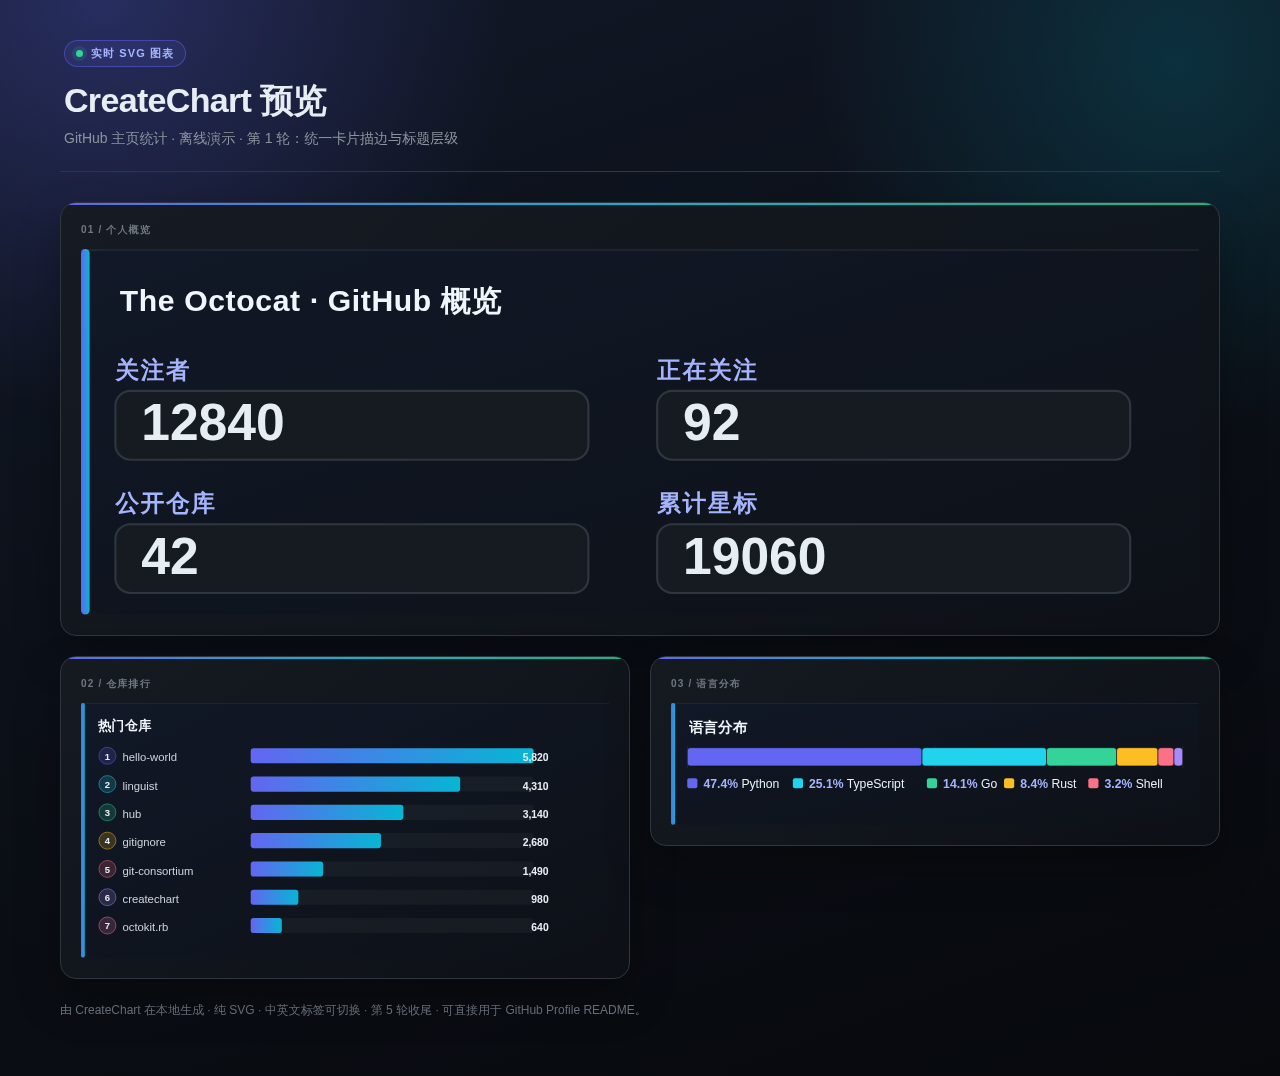
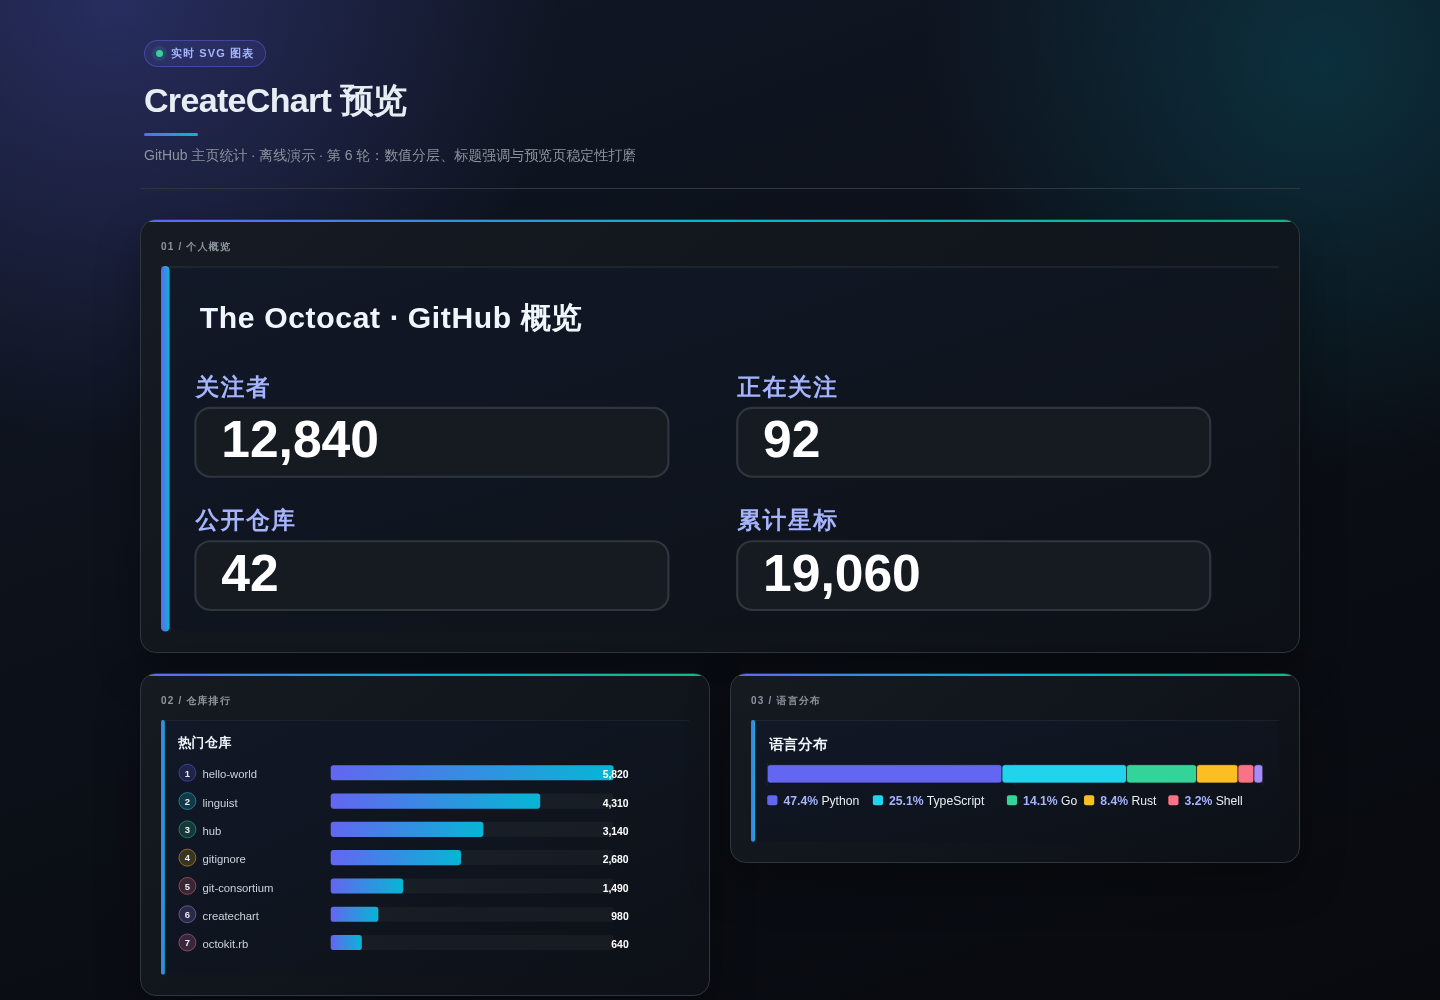
feat(charts): 打磨数值展示与预览页

Changed region(s): [[0.0312, 0.186, 0.9375, 0.961], [0.0312, 0.031, 0.4375, 0.186], [0.125, 0.992, 0.4688, 1.0]]

diff --git a/charts-zh/preview.html b/charts-zh/preview.html
@@ -1,0 +1,201 @@
+<!doctype html>
+<html lang="zh">
+<head>
+  <meta charset="utf-8">
+  <meta name="viewport" content="width=device-width, initial-scale=1">
+  <title>CreateChart · 预览</title>
+  <style>
+    * { box-sizing: border-box; }
+    body {
+      margin: 0;
+      min-height: 100vh;
+      padding: 40px 24px 56px;
+      background:
+        radial-gradient(circle at 8% 0%, rgba(99, 102, 241, .28) 0, transparent 26%),
+        radial-gradient(circle at 92% 6%, rgba(6, 182, 212, .18) 0, transparent 24%),
+        linear-gradient(160deg, #111827 0%, #0b0f16 52%, #07090d 100%);
+      color: #e6edf3;
+      font-family: -apple-system, BlinkMacSystemFont, "Segoe UI", sans-serif;
+    }
+    main { max-width: 1160px; margin: 0 auto; }
+    header { margin-bottom: 30px; padding: 0 4px 22px; border-bottom: 1px solid #30363d; }
+    .eyebrow {
+      display: inline-flex; align-items: center; gap: 8px;
+      margin-bottom: 14px; padding: 5px 11px;
+      border: 1px solid rgba(99, 102, 241, .45); border-radius: 999px;
+      background: rgba(99, 102, 241, .12); color: #a5b4fc;
+      font-size: 11px; font-weight: 700; letter-spacing: .1em; text-transform: uppercase;
+    }
+    .eyebrow::before {
+      content: ""; width: 7px; height: 7px; border-radius: 50%;
+      background: #34d399; box-shadow: 0 0 0 4px rgba(52, 211, 153, .12);
+    }
+    h1 { margin: 0 0 8px; font-size: 34px; line-height: 1.12; letter-spacing: -.02em; }
+    h1::after { content: ""; display: block; width: 54px; height: 3px; margin-top: 14px; border-radius: 999px; background: linear-gradient(90deg, #6366f1, #06b6d4); }
+    .subtitle { color: #8b949e; font-size: 14px; line-height: 1.6; }
+    .grid { display: grid; grid-template-columns: repeat(2, minmax(0, 1fr)); gap: 20px; align-items: start; }
+    .card {
+      position: relative; padding: 20px;
+      border: 1px solid #30363d; border-radius: 16px; transition: border-color .2s ease, transform .2s ease;
+      background: linear-gradient(145deg, rgba(22, 27, 34, .95), rgba(13, 17, 23, .88));
+      box-shadow: 0 20px 45px rgba(0, 0, 0, .3);
+      overflow: hidden;
+    }
+    .card::before {
+      content: ""; position: absolute; inset: 0 0 auto; height: 2px;
+      background: linear-gradient(90deg, #6366f1, #06b6d4, #10b981);
+    }
+    .card .section-label {
+      display: block; margin: 0 0 12px; color: #8b949e;
+      font-size: 10px; font-weight: 700; letter-spacing: .12em; text-transform: uppercase;
+    }
+    .card:first-child { grid-column: 1 / -1; }
+    .card svg { display: block; width: 100%; height: auto; }
+    .card:hover { border-color: rgba(99, 102, 241, .72); box-shadow: 0 22px 52px rgba(0,0,0,.38), 0 0 0 1px rgba(99,102,241,.18); transform: translateY(-2px); }
+    .card svg text { paint-order: stroke; }
+    footer { margin-top: 22px; color: #6e7681; font-size: 12px; line-height: 1.6; }
+    @media (max-width: 900px) {
+      body { padding: 24px 16px 40px; }
+      h1 { font-size: 28px; }
+      .grid { grid-template-columns: 1fr; }
+      .card:first-child { grid-column: auto; }
+    }
+  </style>
+</head>
+<body>
+  <main>
+    <header>
+      <div class="eyebrow">实时 SVG 图表</div>
+      <h1>CreateChart 预览</h1>
+      <div class="subtitle">GitHub 主页统计 · 离线演示 · 第 6 轮：数值分层、标题强调与预览页稳定性打磨</div>
+    </header>
+    <section class="grid">
+      <div class="card"><span class="section-label">01 / 个人概览</span><svg xmlns="http://www.w3.org/2000/svg" width="520" height="170" viewBox="0 0 520 170" role="img" aria-label="The Octocat · GitHub 概览">
+<defs>
+<linearGradient id="bg" x1="0" y1="0" x2="1" y2="1">
+<stop offset="0%" stop-color="#111827"/>
+<stop offset="100%" stop-color="#0d1117"/>
+</linearGradient>
+<linearGradient id="accent" x1="0" y1="0" x2="1" y2="0">
+<stop offset="0%" stop-color="#6366f1"/>
+<stop offset="100%" stop-color="#06b6d4"/>
+</linearGradient>
+</defs>
+<rect width="520" height="170" fill="url(#bg)" rx="12"/>
+<rect x="0" y="0" width="4" height="170" fill="url(#accent)" rx="2"/>
+<rect x="0" y="0" width="520" height="1" fill="#ffffff" opacity="0.06"/>
+<text x="18" y="29" fill="#f0f6fc" font-family="-apple-system, BlinkMacSystemFont, Segoe UI, sans-serif" font-size="14" font-weight="700" letter-spacing="0.3">The Octocat · GitHub 概览</text>
+<line x1="18" y1="38" x2="502" y2="38" stroke="url(#accent)" stroke-opacity="0.55"/>
+<text x="16" y="60" fill="#a5b4fc" font-family="-apple-system, BlinkMacSystemFont, Segoe UI, sans-serif" font-size="11" font-weight="700" letter-spacing="0.8">关注者</text>
+<rect x="16" y="66" width="220" height="32" rx="7" fill="#161b22" stroke="#30363d"/>
+<text x="28" y="89" fill="#e6edf3" font-family="-apple-system, BlinkMacSystemFont, Segoe UI, sans-serif" font-size="24" font-weight="700" font-feature-settings="tnum"><tspan fill="#ffffff">12,840</tspan></text>
+<text x="268" y="60" fill="#a5b4fc" font-family="-apple-system, BlinkMacSystemFont, Segoe UI, sans-serif" font-size="11" font-weight="700" letter-spacing="0.8">正在关注</text>
+<rect x="268" y="66" width="220" height="32" rx="7" fill="#161b22" stroke="#30363d"/>
+<text x="280" y="89" fill="#e6edf3" font-family="-apple-system, BlinkMacSystemFont, Segoe UI, sans-serif" font-size="24" font-weight="700" font-feature-settings="tnum"><tspan fill="#ffffff">92</tspan></text>
+<text x="16" y="122" fill="#a5b4fc" font-family="-apple-system, BlinkMacSystemFont, Segoe UI, sans-serif" font-size="11" font-weight="700" letter-spacing="0.8">公开仓库</text>
+<rect x="16" y="128" width="220" height="32" rx="7" fill="#161b22" stroke="#30363d"/>
+<text x="28" y="151" fill="#e6edf3" font-family="-apple-system, BlinkMacSystemFont, Segoe UI, sans-serif" font-size="24" font-weight="700" font-feature-settings="tnum"><tspan fill="#ffffff">42</tspan></text>
+<text x="268" y="122" fill="#a5b4fc" font-family="-apple-system, BlinkMacSystemFont, Segoe UI, sans-serif" font-size="11" font-weight="700" letter-spacing="0.8">累计星标</text>
+<rect x="268" y="128" width="220" height="32" rx="7" fill="#161b22" stroke="#30363d"/>
+<text x="280" y="151" fill="#e6edf3" font-family="-apple-system, BlinkMacSystemFont, Segoe UI, sans-serif" font-size="24" font-weight="700" font-feature-settings="tnum"><tspan fill="#ffffff">19,060</tspan></text>
+</svg></div>
+      <div class="card"><span class="section-label">02 / 仓库排行</span><svg xmlns="http://www.w3.org/2000/svg" width="560" height="270" viewBox="0 0 560 270" role="img" aria-label="热门仓库">
+<defs>
+<linearGradient id="bg" x1="0" y1="0" x2="1" y2="1">
+<stop offset="0%" stop-color="#111827"/>
+<stop offset="100%" stop-color="#0d1117"/>
+</linearGradient>
+<linearGradient id="accent" x1="0" y1="0" x2="1" y2="0">
+<stop offset="0%" stop-color="#6366f1"/>
+<stop offset="100%" stop-color="#06b6d4"/>
+</linearGradient>
+</defs>
+<rect width="560" height="270" fill="url(#bg)" rx="12"/>
+<rect x="0" y="0" width="4" height="270" fill="url(#accent)" rx="2"/>
+<rect x="0" y="0" width="560" height="1" fill="#ffffff" opacity="0.06"/>
+<text x="18" y="29" fill="#f0f6fc" font-family="-apple-system, BlinkMacSystemFont, Segoe UI, sans-serif" font-size="14" font-weight="700" letter-spacing="0.3">热门仓库</text>
+<line x1="18" y1="38" x2="542" y2="38" stroke="url(#accent)" stroke-opacity="0.55"/>
+<circle cx="28" cy="56" r="9" fill="#6366f1" fill-opacity="0.18" stroke="#6366f1" stroke-opacity="0.5"/>
+<text x="28" y="60" text-anchor="middle" fill="#e6edf3" font-family="-apple-system, BlinkMacSystemFont, Segoe UI, sans-serif" font-size="10" font-weight="700">1</text>
+<text x="44" y="62" fill="#c9d1d9" font-family="-apple-system, BlinkMacSystemFont, Segoe UI, sans-serif" font-size="12">hello-world</text>
+<rect x="180" y="48" width="300" height="16" rx="3" fill="#ffffff" fill-opacity="0.04"/>
+<rect x="180" y="48" width="300.00" height="16" rx="3" fill="url(#accent)"><title>hello-world: 5820</title></rect>
+<text x="496.00" y="62.00" text-anchor="end" fill="#f0f6fc" font-family="-apple-system, BlinkMacSystemFont, Segoe UI, sans-serif" font-size="11" font-weight="700" font-feature-settings="tnum"><tspan fill="#ffffff">5,820</tspan></text>
+<circle cx="28" cy="86" r="9" fill="#22d3ee" fill-opacity="0.18" stroke="#22d3ee" stroke-opacity="0.5"/>
+<text x="28" y="90" text-anchor="middle" fill="#e6edf3" font-family="-apple-system, BlinkMacSystemFont, Segoe UI, sans-serif" font-size="10" font-weight="700">2</text>
+<text x="44" y="92" fill="#c9d1d9" font-family="-apple-system, BlinkMacSystemFont, Segoe UI, sans-serif" font-size="12">linguist</text>
+<rect x="180" y="78" width="300" height="16" rx="3" fill="#ffffff" fill-opacity="0.04"/>
+<rect x="180" y="78" width="222.16" height="16" rx="3" fill="url(#accent)"><title>linguist: 4310</title></rect>
+<text x="496.00" y="92.00" text-anchor="end" fill="#f0f6fc" font-family="-apple-system, BlinkMacSystemFont, Segoe UI, sans-serif" font-size="11" font-weight="700" font-feature-settings="tnum"><tspan fill="#ffffff">4,310</tspan></text>
+<circle cx="28" cy="116" r="9" fill="#34d399" fill-opacity="0.18" stroke="#34d399" stroke-opacity="0.5"/>
+<text x="28" y="120" text-anchor="middle" fill="#e6edf3" font-family="-apple-system, BlinkMacSystemFont, Segoe UI, sans-serif" font-size="10" font-weight="700">3</text>
+<text x="44" y="122" fill="#c9d1d9" font-family="-apple-system, BlinkMacSystemFont, Segoe UI, sans-serif" font-size="12">hub</text>
+<rect x="180" y="108" width="300" height="16" rx="3" fill="#ffffff" fill-opacity="0.04"/>
+<rect x="180" y="108" width="161.86" height="16" rx="3" fill="url(#accent)"><title>hub: 3140</title></rect>
+<text x="496.00" y="122.00" text-anchor="end" fill="#f0f6fc" font-family="-apple-system, BlinkMacSystemFont, Segoe UI, sans-serif" font-size="11" font-weight="700" font-feature-settings="tnum"><tspan fill="#ffffff">3,140</tspan></text>
+<circle cx="28" cy="146" r="9" fill="#fbbf24" fill-opacity="0.18" stroke="#fbbf24" stroke-opacity="0.5"/>
+<text x="28" y="150" text-anchor="middle" fill="#e6edf3" font-family="-apple-system, BlinkMacSystemFont, Segoe UI, sans-serif" font-size="10" font-weight="700">4</text>
+<text x="44" y="152" fill="#c9d1d9" font-family="-apple-system, BlinkMacSystemFont, Segoe UI, sans-serif" font-size="12">gitignore</text>
+<rect x="180" y="138" width="300" height="16" rx="3" fill="#ffffff" fill-opacity="0.04"/>
+<rect x="180" y="138" width="138.14" height="16" rx="3" fill="url(#accent)"><title>gitignore: 2680</title></rect>
+<text x="496.00" y="152.00" text-anchor="end" fill="#f0f6fc" font-family="-apple-system, BlinkMacSystemFont, Segoe UI, sans-serif" font-size="11" font-weight="700" font-feature-settings="tnum"><tspan fill="#ffffff">2,680</tspan></text>
+<circle cx="28" cy="176" r="9" fill="#fb7185" fill-opacity="0.18" stroke="#fb7185" stroke-opacity="0.5"/>
+<text x="28" y="180" text-anchor="middle" fill="#e6edf3" font-family="-apple-system, BlinkMacSystemFont, Segoe UI, sans-serif" font-size="10" font-weight="700">5</text>
+<text x="44" y="182" fill="#c9d1d9" font-family="-apple-system, BlinkMacSystemFont, Segoe UI, sans-serif" font-size="12">git-consortium</text>
+<rect x="180" y="168" width="300" height="16" rx="3" fill="#ffffff" fill-opacity="0.04"/>
+<rect x="180" y="168" width="76.80" height="16" rx="3" fill="url(#accent)"><title>git-consortium: 1490</title></rect>
+<text x="496.00" y="182.00" text-anchor="end" fill="#f0f6fc" font-family="-apple-system, BlinkMacSystemFont, Segoe UI, sans-serif" font-size="11" font-weight="700" font-feature-settings="tnum"><tspan fill="#ffffff">1,490</tspan></text>
+<circle cx="28" cy="206" r="9" fill="#a78bfa" fill-opacity="0.18" stroke="#a78bfa" stroke-opacity="0.5"/>
+<text x="28" y="210" text-anchor="middle" fill="#e6edf3" font-family="-apple-system, BlinkMacSystemFont, Segoe UI, sans-serif" font-size="10" font-weight="700">6</text>
+<text x="44" y="212" fill="#c9d1d9" font-family="-apple-system, BlinkMacSystemFont, Segoe UI, sans-serif" font-size="12">createchart</text>
+<rect x="180" y="198" width="300" height="16" rx="3" fill="#ffffff" fill-opacity="0.04"/>
+<rect x="180" y="198" width="50.52" height="16" rx="3" fill="url(#accent)"><title>createchart: 980</title></rect>
+<text x="496.00" y="212.00" text-anchor="end" fill="#f0f6fc" font-family="-apple-system, BlinkMacSystemFont, Segoe UI, sans-serif" font-size="11" font-weight="700" font-feature-settings="tnum"><tspan fill="#ffffff">980</tspan></text>
+<circle cx="28" cy="236" r="9" fill="#f472b6" fill-opacity="0.18" stroke="#f472b6" stroke-opacity="0.5"/>
+<text x="28" y="240" text-anchor="middle" fill="#e6edf3" font-family="-apple-system, BlinkMacSystemFont, Segoe UI, sans-serif" font-size="10" font-weight="700">7</text>
+<text x="44" y="242" fill="#c9d1d9" font-family="-apple-system, BlinkMacSystemFont, Segoe UI, sans-serif" font-size="12">octokit.rb</text>
+<rect x="180" y="228" width="300" height="16" rx="3" fill="#ffffff" fill-opacity="0.04"/>
+<rect x="180" y="228" width="32.99" height="16" rx="3" fill="url(#accent)"><title>octokit.rb: 640</title></rect>
+<text x="496.00" y="242.00" text-anchor="end" fill="#f0f6fc" font-family="-apple-system, BlinkMacSystemFont, Segoe UI, sans-serif" font-size="11" font-weight="700" font-feature-settings="tnum"><tspan fill="#ffffff">640</tspan></text>
+</svg></div>
+      <div class="card"><span class="section-label">03 / 语言分布</span><svg xmlns="http://www.w3.org/2000/svg" width="520" height="120" viewBox="0 0 520 120" role="img" aria-label="语言分布">
+<defs>
+<linearGradient id="bg" x1="0" y1="0" x2="1" y2="1">
+<stop offset="0%" stop-color="#111827"/>
+<stop offset="100%" stop-color="#0d1117"/>
+</linearGradient>
+<linearGradient id="accent" x1="0" y1="0" x2="1" y2="0">
+<stop offset="0%" stop-color="#6366f1"/>
+<stop offset="100%" stop-color="#06b6d4"/>
+</linearGradient>
+</defs>
+<rect width="520" height="120" fill="url(#bg)" rx="12"/>
+<rect x="0" y="0" width="4" height="120" fill="url(#accent)" rx="2"/>
+<rect x="0" y="0" width="520" height="1" fill="#ffffff" opacity="0.06"/>
+<text x="18" y="29" fill="#f0f6fc" font-family="-apple-system, BlinkMacSystemFont, Segoe UI, sans-serif" font-size="14" font-weight="700" letter-spacing="0.3">语言分布</text>
+<line x1="18" y1="38" x2="502" y2="38" stroke="url(#accent)" stroke-opacity="0.55"/>
+<line x1="16.00" y1="42" x2="16.00" y2="64" stroke="#ffffff" stroke-opacity="0.07"/>
+<line x1="260.00" y1="42" x2="260.00" y2="64" stroke="#ffffff" stroke-opacity="0.07"/>
+<line x1="504.00" y1="42" x2="504.00" y2="64" stroke="#ffffff" stroke-opacity="0.07"/>
+<rect x="16.00" y="44" width="231.23" height="18" rx="3" fill="#6366f1" stroke="#0d1117" stroke-width="0.6"><title>Python: 182000 bytes</title></rect>
+<rect x="247.23" y="44" width="122.60" height="18" rx="3" fill="#22d3ee" stroke="#0d1117" stroke-width="0.6"><title>TypeScript: 96500 bytes</title></rect>
+<rect x="369.83" y="44" width="68.99" height="18" rx="3" fill="#34d399" stroke="#0d1117" stroke-width="0.6"><title>Go: 54300 bytes</title></rect>
+<rect x="438.82" y="44" width="40.78" height="18" rx="3" fill="#fbbf24" stroke="#0d1117" stroke-width="0.6"><title>Rust: 32100 bytes</title></rect>
+<rect x="479.61" y="44" width="15.75" height="18" rx="3" fill="#fb7185" stroke="#0d1117" stroke-width="0.6"><title>Shell: 12400 bytes</title></rect>
+<rect x="495.36" y="44" width="8.64" height="18" rx="3" fill="#a78bfa" stroke="#0d1117" stroke-width="0.6"><title>HTML: 6800 bytes</title></rect>
+<rect x="16.00" y="74.0" width="10" height="10" rx="2" fill="#6366f1"/>
+<text x="32.00" y="84.0" fill="#e6edf3" font-family="-apple-system, BlinkMacSystemFont, Segoe UI, sans-serif" font-size="12"><tspan fill="#a5b4fc" font-weight="700">47.4%</tspan> Python</text>
+<rect x="120.00" y="74.0" width="10" height="10" rx="2" fill="#22d3ee"/>
+<text x="136.00" y="84.0" fill="#e6edf3" font-family="-apple-system, BlinkMacSystemFont, Segoe UI, sans-serif" font-size="12"><tspan fill="#a5b4fc" font-weight="700">25.1%</tspan> TypeScript</text>
+<rect x="252.00" y="74.0" width="10" height="10" rx="2" fill="#34d399"/>
+<text x="268.00" y="84.0" fill="#e6edf3" font-family="-apple-system, BlinkMacSystemFont, Segoe UI, sans-serif" font-size="12"><tspan fill="#a5b4fc" font-weight="700">14.1%</tspan> Go</text>
+<rect x="328.00" y="74.0" width="10" height="10" rx="2" fill="#fbbf24"/>
+<text x="344.00" y="84.0" fill="#e6edf3" font-family="-apple-system, BlinkMacSystemFont, Segoe UI, sans-serif" font-size="12"><tspan fill="#a5b4fc" font-weight="700">8.4%</tspan> Rust</text>
+<rect x="411.00" y="74.0" width="10" height="10" rx="2" fill="#fb7185"/>
+<text x="427.00" y="84.0" fill="#e6edf3" font-family="-apple-system, BlinkMacSystemFont, Segoe UI, sans-serif" font-size="12"><tspan fill="#a5b4fc" font-weight="700">3.2%</tspan> Shell</text>
+</svg></div>
+    </section>
+    <footer>由 CreateChart 在本地生成 · 纯 SVG · 中英文标签可切换 · 第 6 轮视觉打磨 · 可直接用于 GitHub Profile README。</footer>
+  </main>
+</body>
+</html>

diff --git a/createchart/charts.py b/createchart/charts.py
@@ -26,11 +26,11 @@ LANGUAGE_LABELS = {
         "preview_title": "CreateChart · 预览",
         "preview_eyebrow": "实时 SVG 图表",
         "preview_heading": "CreateChart 预览",
-        "preview_subtitle": "GitHub 主页统计 · 离线演示 · 第 1 轮：统一卡片描边与标题层级",
+        "preview_subtitle": "GitHub 主页统计 · 离线演示 · 第 6 轮：数值分层、标题强调与预览页稳定性打磨",
         "profile_section": "01 / 个人概览",
         "repos_section": "02 / 仓库排行",
         "languages_section": "03 / 语言分布",
-        "preview_footer": "由 CreateChart 在本地生成 · 纯 SVG · 中英文标签可切换 · 第 5 轮收尾 · 可直接用于 GitHub Profile README。",
+        "preview_footer": "由 CreateChart 在本地生成 · 纯 SVG · 中英文标签可切换 · 第 6 轮视觉打磨 · 可直接用于 GitHub Profile README。",
     },
     "en": {
         "profile_title": "GitHub overview",
@@ -46,7 +46,7 @@ LANGUAGE_LABELS = {
         "preview_title": "CreateChart · Preview",
         "preview_eyebrow": "Live SVG charts",
         "preview_heading": "CreateChart preview",
-        "preview_subtitle": "GitHub profile statistics · offline demo · another pass on clarity and detail",
+        "preview_subtitle": "GitHub profile statistics · offline demo · sixth pass on hierarchy and preview stability",
         "profile_section": "01 / Profile",
         "repos_section": "02 / Repositories",
         "languages_section": "03 / Languages",
@@ -88,6 +88,15 @@ def _svg_header(title: str, width: int, height: int) -> List[str]:
 def _svg_footer(lines: List[str]) -> str:
     lines.append("</svg>")
     return "\n".join(lines)
+
+
+def _svg_value_label(x: float, y: float, value: int, *, anchor: str = "start") -> str:
+    return (
+        f'<text x="{x:.2f}" y="{y:.2f}" text-anchor="{anchor}" fill="#f0f6fc" '
+        'font-family="-apple-system, BlinkMacSystemFont, Segoe UI, sans-serif" '
+        'font-size="11" font-weight="700" font-feature-settings="tnum">'
+        f'<tspan fill="#ffffff">{value:,}</tspan></text>'
+    )
 
 
 def language_chart(languages: Dict[str, int], title: str | None = None, lang: str = DEFAULT_LANG) -> str:
@@ -161,7 +170,7 @@ def repo_bars(
         parts.append(f'<text x="44" y="{y + 14}" fill="#c9d1d9" font-family="-apple-system, BlinkMacSystemFont, Segoe UI, sans-serif" font-size="12">{escape(name)}</text>')
         parts.append(f'<rect x="180" y="{y}" width="300" height="16" rx="3" fill="#ffffff" fill-opacity="0.04"/>')
         parts.append(f'<rect x="180" y="{y}" width="{bar:.2f}" height="16" rx="3" fill="url(#accent)"><title>{escape(name)}: {value}</title></rect>')
-        parts.append(f'<text x="496" y="{y + 14}" text-anchor="end" fill="#e6edf3" font-family="-apple-system, BlinkMacSystemFont, Segoe UI, sans-serif" font-size="11" font-weight="700" font-feature-settings="tnum">{value:,}</text>')
+        parts.append(_svg_value_label(496, y + 14, value, anchor="end"))
     return _svg_footer(parts)
 
 
@@ -191,7 +200,7 @@ def profile_summary(user: Dict[str, object], repos: Iterable[Dict[str, object]],
         y = 60 + (idx // 2) * 62
         lines.append(f'<text x="{x}" y="{y}" fill="#a5b4fc" font-family="-apple-system, BlinkMacSystemFont, Segoe UI, sans-serif" font-size="11" font-weight="700" letter-spacing="0.8">{escape(label)}</text>')
         lines.append(f'<rect x="{x}" y="{y + 6}" width="220" height="32" rx="7" fill="#161b22" stroke="#30363d"/>')
-        lines.append(f'<text x="{x + 12}" y="{y + 29}" fill="#e6edf3" font-family="-apple-system, BlinkMacSystemFont, Segoe UI, sans-serif" font-size="24" font-weight="700" font-feature-settings="tnum">{value}</text>')
+        lines.append(f'<text x="{x + 12}" y="{y + 29}" fill="#e6edf3" font-family="-apple-system, BlinkMacSystemFont, Segoe UI, sans-serif" font-size="24" font-weight="700" font-feature-settings="tnum"><tspan fill="#ffffff">{value:,}</tspan></text>')
     return _svg_footer(lines)
 
 
@@ -278,6 +287,7 @@ def preview_html(charts: Dict[str, str], lang: str = DEFAULT_LANG) -> str:
       background: #34d399; box-shadow: 0 0 0 4px rgba(52, 211, 153, .12);
     }}
     h1 {{ margin: 0 0 8px; font-size: 34px; line-height: 1.12; letter-spacing: -.02em; }}
+    h1::after {{ content: ""; display: block; width: 54px; height: 3px; margin-top: 14px; border-radius: 999px; background: linear-gradient(90deg, #6366f1, #06b6d4); }}
     .subtitle {{ color: #8b949e; font-size: 14px; line-height: 1.6; }}
     .grid {{ display: grid; grid-template-columns: repeat(2, minmax(0, 1fr)); gap: 20px; align-items: start; }}
     .card {{
@@ -292,7 +302,7 @@ def preview_html(charts: Dict[str, str], lang: str = DEFAULT_LANG) -> str:
       background: linear-gradient(90deg, #6366f1, #06b6d4, #10b981);
     }}
     .card .section-label {{
-      display: block; margin: 0 0 12px; color: #6e7681;
+      display: block; margin: 0 0 12px; color: #8b949e;
       font-size: 10px; font-weight: 700; letter-spacing: .12em; text-transform: uppercase;
     }}
     .card:first-child {{ grid-column: 1 / -1; }}

diff --git a/tests/test_charts.py b/tests/test_charts.py
@@ -25,7 +25,7 @@ def test_profile_summary_counts_stars():
     svg = profile_summary({"login": "octocat", "followers": 3}, [
         {"stargazers_count": 4}, {"stargazers_count": 6},
     ])
-    assert ">10</text>" in svg
+    assert ">10</tspan>" in svg
 
 
 def test_aggregate_languages():
@@ -69,7 +69,19 @@ def test_english_labels_remain_default():
 
 def test_preview_polish_rounds_are_visible():
     html = preview_html(demo_charts(lang="zh"), lang="zh")
-    assert "第 1 轮" in html
-    assert "第 5 轮收尾" in html
+    assert "第 6 轮" in html
+    assert "第 6 轮视觉打磨" in html
     assert "累计星标" in html
     assert "rgba(99, 102, 241, .72)" in html
+
+
+def test_preview_header_and_labels_are_polished():
+    html = preview_html(demo_charts(lang="zh"), lang="zh")
+    assert "h1::after" in html
+    assert "#8b949e" in html
+
+
+def test_profile_values_use_thousands_separator():
+    svg = demo_charts(lang="zh")["profile"]
+    assert "12,840" in svg
+    assert "19,060" in svg

diff --git a/README.md b/README.md
@@ -12,7 +12,7 @@ Generate SVG statistical charts for GitHub profiles and repositories. Ready to d
 - Offline demo mode for previewing charts without GitHub API calls
 - Chinese and English labels via `--lang zh` / `--lang en`
 - Refined typography, spacing, card hover states and title dividers
-- Five focused visual polish rounds with zh/en preview copy updates
+- Six focused visual polish rounds with zh/en preview copy updates
 
 ## Install
 
